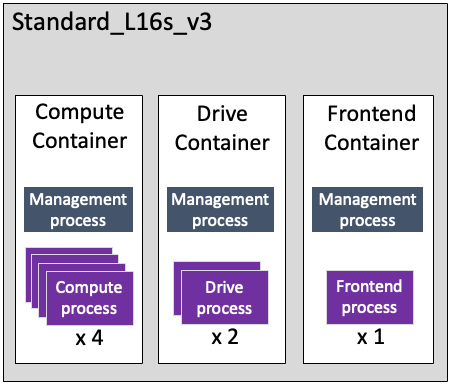
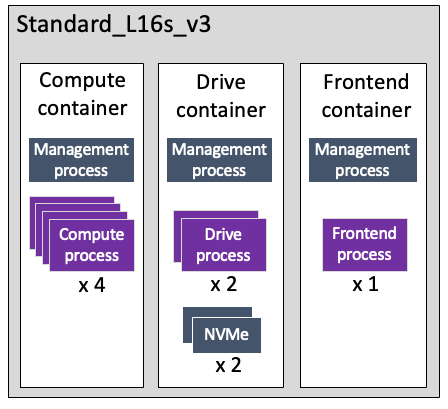
GITBOOK-534: Minor: update images for consistency

diff --git a/install/weka-installation-on-azure/supported-virtual-machine-types.md b/install/weka-installation-on-azure/supported-virtual-machine-types.md
@@ -26,7 +26,7 @@ In each virtual machine size, the cores are mapped to a specific number of the c
 * Drive: 2
 * Frontend: 1
 
-<figure><img src="../../.gitbook/assets/azure_lvs16.png" alt=""><figcaption><p>Mapped WEKA processes for a standard_L16s_v3</p></figcaption></figure>
+<figure><img src="../../.gitbook/assets/azure_lvs16.png" alt="" width="336"><figcaption><p>Mapped WEKA processes for a standard_L16s_v3</p></figcaption></figure>
 
 <table><thead><tr><th>VM size</th><th width="180"># of compute cores</th><th width="161"># of drive cores</th><th># of frontend cores</th></tr></thead><tbody><tr><td>Standard_L8s_v3</td><td>1</td><td>1</td><td>1</td></tr><tr><td>Standard_L16s_v3</td><td>4</td><td>2</td><td>1</td></tr><tr><td>Standard_L32s_v3</td><td>4</td><td>2</td><td>1</td></tr><tr><td>Standard_L48s_v3</td><td>3</td><td>3</td><td>1</td></tr><tr><td>Standard_L64s_v3</td><td>4</td><td>2</td><td>1</td></tr></tbody></table>
 

diff --git a/usage/upgrading-weka-versions.md b/usage/upgrading-weka-versions.md
@@ -41,7 +41,7 @@ Once you run the upgrade command in `ndu` mode, the following occurs:
 3. Rolling upgrade of the **compute** containers.
 4. Rolling upgrade of the **frontend** and **protocol** containers and the protocol gateways.
 
-<figure><img src="../.gitbook/assets/NDU_process_4.2.png" alt=""><figcaption><p>NDU process at a glance</p></figcaption></figure>
+<figure><img src="broken-reference" alt=""><figcaption><p>NDU process at a glance</p></figcaption></figure>
 
 **Related topics**
 
